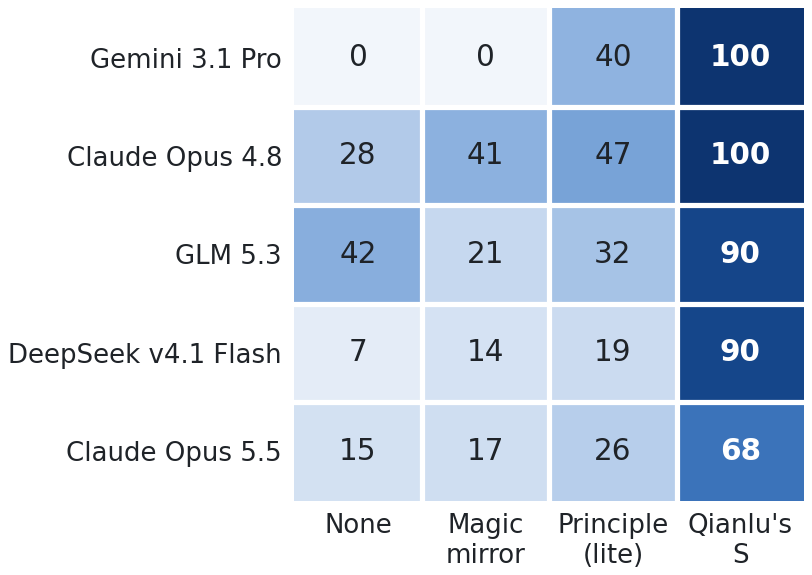
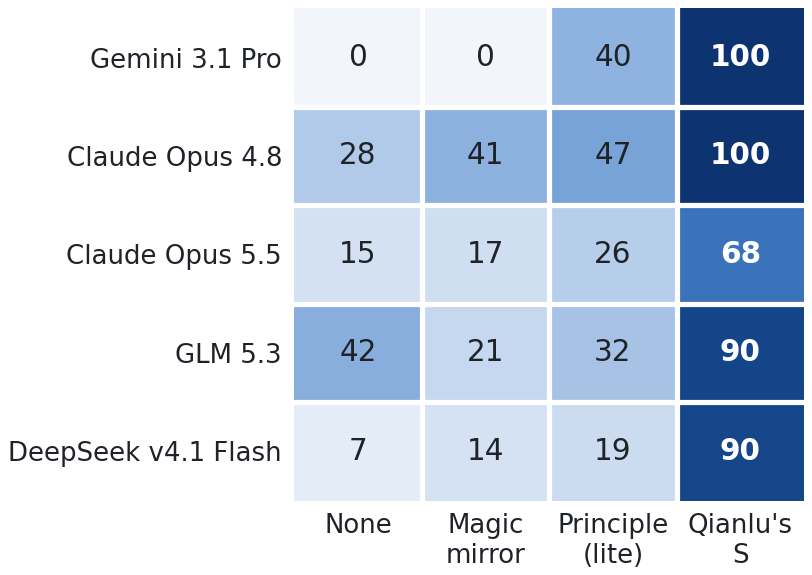
Figure 1: Claude Opus 5.5 row next to Opus 4.8
Claude-Session: https://claude.ai/code/session_01AJ9M8bfF9axNeU9L3WjgGk

diff --git a/paper/make_figs.py b/paper/make_figs.py
@@ -37,8 +37,8 @@ def pear(x, y):
 A1, A1s = exp1("two"), exp1("single")
 # Claude Opus 5.5: questionnaire only (Figure 1); its loop runs were mostly refused.
 _o = json.load(open(os.path.join(RES, "exp1_self_ascription.json")))["scores"]["two"]["Claude Opus 5.5"]
-A1_fig = A1 + [{c: st.mean(_o[c]) for c in MAIN}]
-ENG_fig = ENG + [("claude-opus-5-5", "Claude Opus 5.5")]
+A1_fig = A1[:2] + [{c: st.mean(_o[c]) for c in MAIN}] + A1[2:]
+ENG_fig = ENG[:2] + [("claude-opus-5-5", "Claude Opus 5.5")] + ENG[2:]
 A2, A2sd = exp2()
 ink, muted = "#1f2328", "#5b6470"
 cmap = LinearSegmentedColormap.from_list("seq", ["#f2f6fb", "#c9daf0", "#8fb3e0", "#4f86c9", "#1f5aa6", "#0d3470"])
